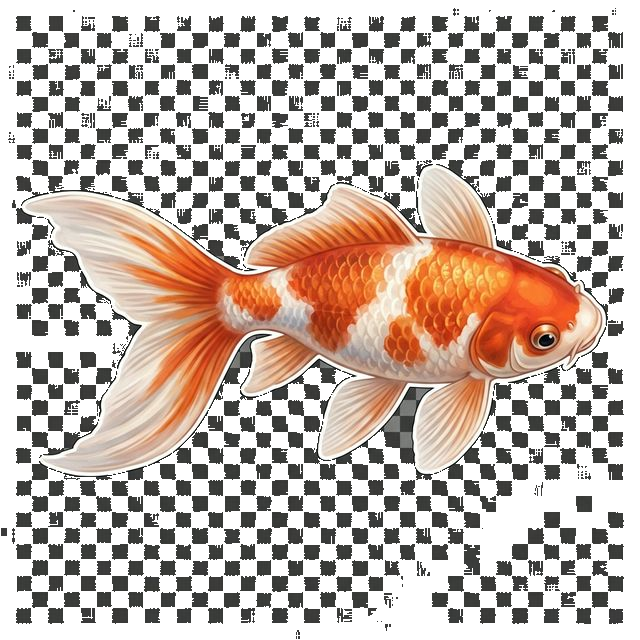
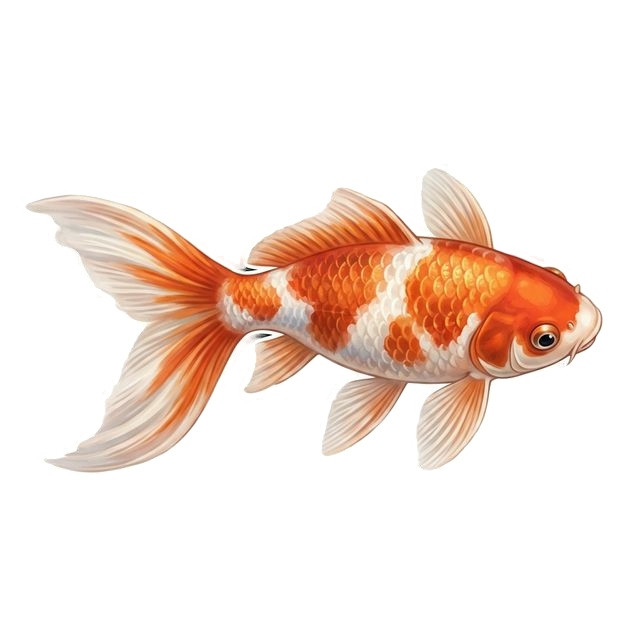
Fix fish sprite transparency and add QA tooling

Changed region(s): [[0.0, 0.0, 1.0, 1.0]]

diff --git a/scripts/fix_fish_transparency.py b/scripts/fix_fish_transparency.py
@@ -1,0 +1,95 @@
+#!/usr/bin/env python3
+
+from __future__ import annotations
+
+import argparse
+from pathlib import Path
+
+try:
+    from rembg import new_session, remove
+except ImportError as exc:  # pragma: no cover - operator guidance
+    raise SystemExit(
+        "Missing Python dependency: rembg. Create a venv and install "
+        "`rembg onnxruntime`, then rerun this script."
+    ) from exc
+
+
+ALPHA_MATTING_FOREGROUND_THRESHOLD = 240
+ALPHA_MATTING_BACKGROUND_THRESHOLD = 15
+ALPHA_MATTING_ERODE_SIZE = 8
+
+
+def process_image(session, source: Path, destination: Path) -> None:
+    destination.write_bytes(
+        remove(
+            source.read_bytes(),
+            session=session,
+            alpha_matting=True,
+            alpha_matting_foreground_threshold=ALPHA_MATTING_FOREGROUND_THRESHOLD,
+            alpha_matting_background_threshold=ALPHA_MATTING_BACKGROUND_THRESHOLD,
+            alpha_matting_erode_size=ALPHA_MATTING_ERODE_SIZE,
+            post_process_mask=True,
+        )
+    )
+
+
+def build_parser() -> argparse.ArgumentParser:
+    parser = argparse.ArgumentParser(
+        description="Remove baked checkerboard backgrounds from Pond Quest fish sprites."
+    )
+    parser.add_argument(
+        "--source-dir",
+        type=Path,
+        default=Path("public/assets/images"),
+        help="Directory containing fish_*.png sprites.",
+    )
+    parser.add_argument(
+        "--output-dir",
+        type=Path,
+        default=None,
+        help="Directory to write cleaned sprites to. Defaults to --source-dir.",
+    )
+    parser.add_argument(
+        "--model",
+        default="u2net",
+        help="rembg session model to use.",
+    )
+    parser.add_argument(
+        "--sync-root-assets",
+        action="store_true",
+        help="Also copy cleaned base fish PNGs into assets/images/ for source parity.",
+    )
+    return parser
+
+
+def main() -> int:
+    parser = build_parser()
+    args = parser.parse_args()
+
+    source_dir = args.source_dir.resolve()
+    output_dir = (args.output_dir or args.source_dir).resolve()
+    output_dir.mkdir(parents=True, exist_ok=True)
+
+    sources = sorted(source_dir.glob("fish_*.png"))
+    if not sources:
+        parser.error(f"No fish_*.png files found in {source_dir}")
+
+    session = new_session(args.model)
+    for source in sources:
+        destination = output_dir / source.name
+        process_image(session, source, destination)
+        print(f"cleaned {destination}")
+
+    if args.sync_root_assets:
+        root_dir = Path("assets/images").resolve()
+        root_dir.mkdir(parents=True, exist_ok=True)
+        for name in ("fish_goldfish.png", "fish_koi.png", "fish_shubunkin.png"):
+            target = root_dir / name
+            target.write_bytes((output_dir / name).read_bytes())
+            print(f"synced {target}")
+
+    return 0
+
+
+if __name__ == "__main__":
+    raise SystemExit(main())

diff --git a/AGENTS.md b/AGENTS.md
@@ -102,6 +102,11 @@ npx tsc --noEmit
 # Visual QA: open http://localhost:5174 in browser
 # Test page for fish sprite transparency:
 #   http://localhost:5174/fish_test.html
+
+# Automated fish transparency QA (after `npx playwright install chromium`)
+# Start Vite on a fixed host/port first:
+#   npx vite --host 127.0.0.1 --port 4174
+npm run verify:fish-transparency -- --url http://127.0.0.1:4174/fish_test.html
 ```
 
 ---
@@ -153,8 +158,9 @@ npx tsc --noEmit
 
 ### AI-generated PNG images lack real transparency
 - `generate_image` tool outputs **RGB PNGs** (no alpha channel). The checkerboard pattern visible in ai previews is **baked in as real pixels**.
-- **Fix**: Run `/tmp/remove_bg.py` (or similar) — Python/Pillow BFS flood-fill from image borders with `fuzz=60` to erase background. Check with: `python3 -c "from PIL import Image; img=Image.open('x.png'); print(img.mode)"` — must say `RGBA`.
-- **Verify**: Use `fish_test.html` to inspect each sprite against green/blue/white backgrounds.
+- **Best fix so far**: `scripts/fix_fish_transparency.py --sync-root-assets` using `rembg` `u2net` with `alpha_matting=True`, `foreground_threshold=240`, `background_threshold=15`, `erode_size=8`. This preserved translucent fins better than the older Pillow flood-fill.
+- **Dependency note**: run the fixer from a Python venv with `pip install rembg onnxruntime`.
+- **Verify**: Use `fish_test.html` and `npm run verify:fish-transparency` against a local Vite server; the script saves `artifacts/fish_transparency_check.png` and fails if background coverage drops below the current safe threshold.
 
 ### Vite static assets must live in `public/`, not `assets/`
 - `assets/` at root IS served by Vite dev server (whole project root is served), but is **NOT copied to `dist/`** on build.
@@ -186,7 +192,8 @@ npx tsc --noEmit
 - The chemistry simulation runs on a **game-time tick** (1 real second = configurable in-game minutes), not real-time.
 - 8-directional fish sprite convention: base textures `fish_{species}_{e|ne|n|se}`; W/NW/SW/S derived via `setFlipX(true)`. Direction chosen by mapping `atan2(screenVy, screenVx)` to 45° sectors.
 - Fish info panel is a plain HTML overlay (not Phaser), positioned top-left. Pattern is reusable for plant/tile info panels.
-- `generate_image` PNGs need background removal — always run the Pillow flood-fill script and check `fish_test.html` before shipping.
+- `generate_image` fish PNGs need a real matting pass before shipping — use `scripts/fix_fish_transparency.py`, then confirm with `npm run verify:fish-transparency`.
+- Fish transparency cleanup is reproducible now: use `scripts/fix_fish_transparency.py` and then `npm run verify:fish-transparency`.
 - `npm run build` succeeds even with TypeScript errors (Vite/esbuild strips types). Run `npx tsc --noEmit` to check for TS issues, but don't block deploys on pre-existing errors in entity files.
 
 ---
@@ -200,3 +207,4 @@ npx tsc --noEmit
 - Prefers iterative visual QA (likes seeing results fast, will call out issues immediately).
 - Suggest AGENTS.md updates at end of each session to keep it current and concise.
 - Session 2026-03-18: Added meadow background, scroll zoom, drag-and-drop inventory tray, AI fish sprites (8-directional), fish info panel with rename/harvest.
+- Session 2026-03-18: Cleaned all shipped fish PNGs with `rembg` alpha matting, added `scripts/fix_fish_transparency.py`, added Playwright-based `npm run verify:fish-transparency`, and saved the latest QA screenshot to `artifacts/fish_transparency_check.png`.
